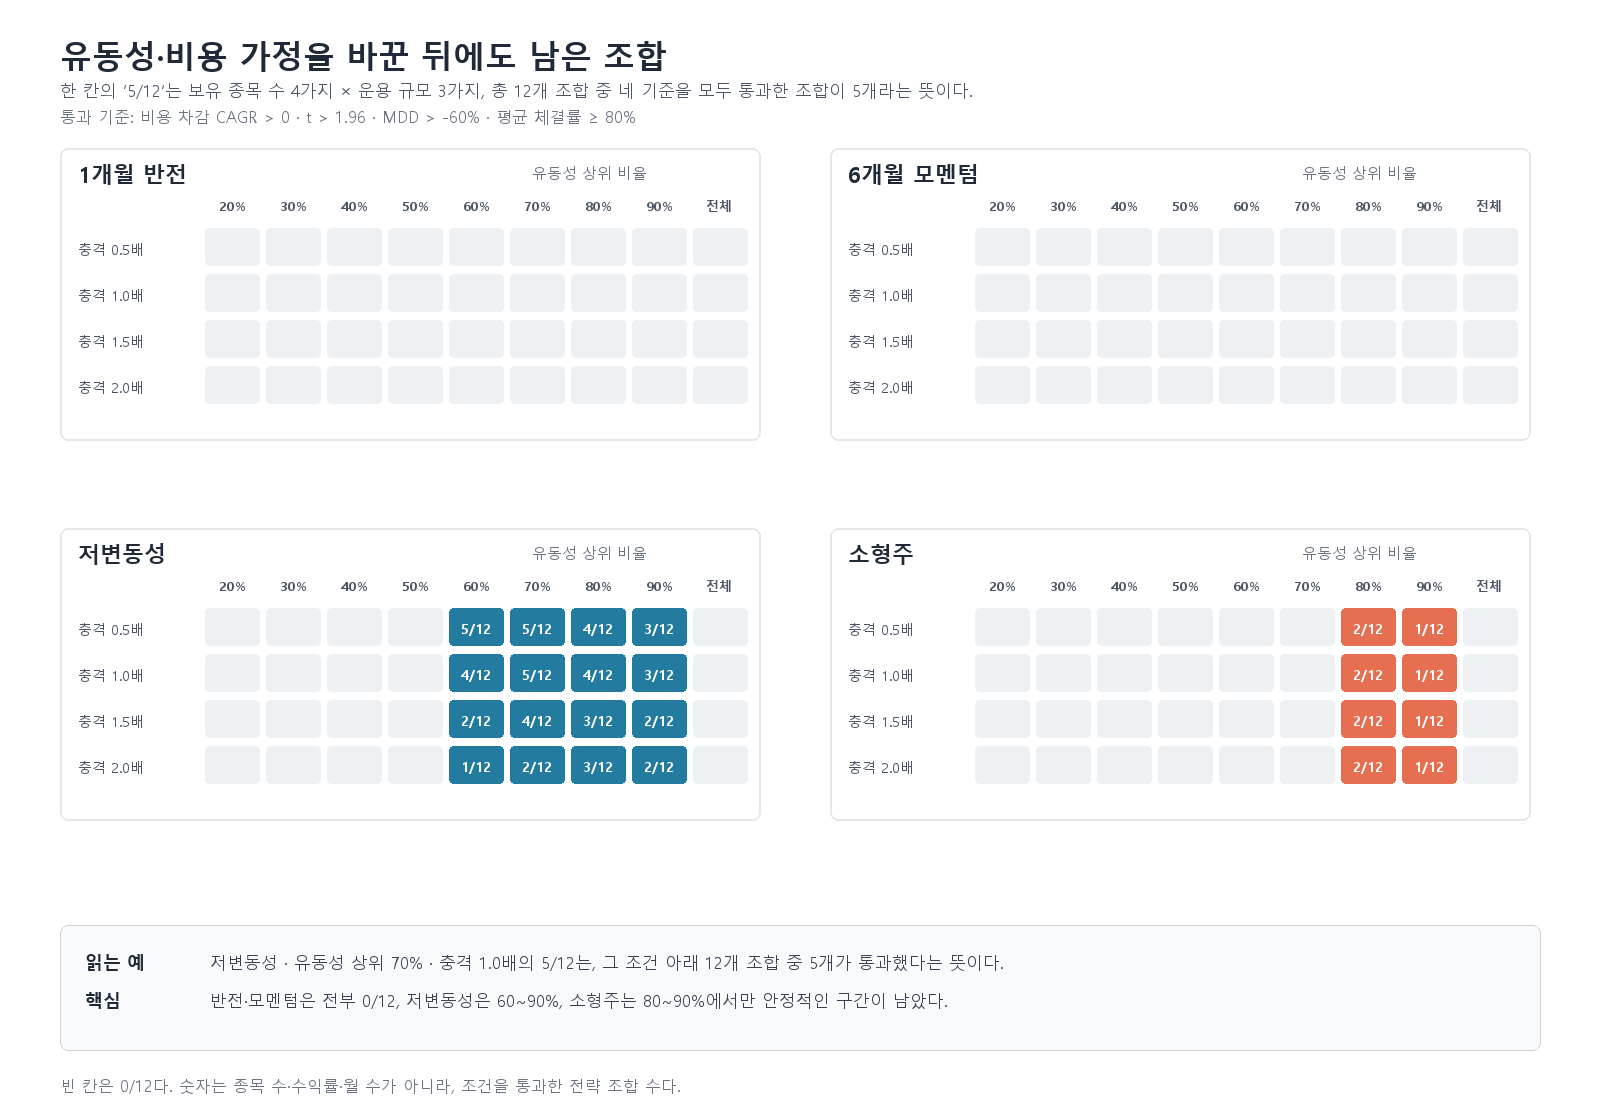
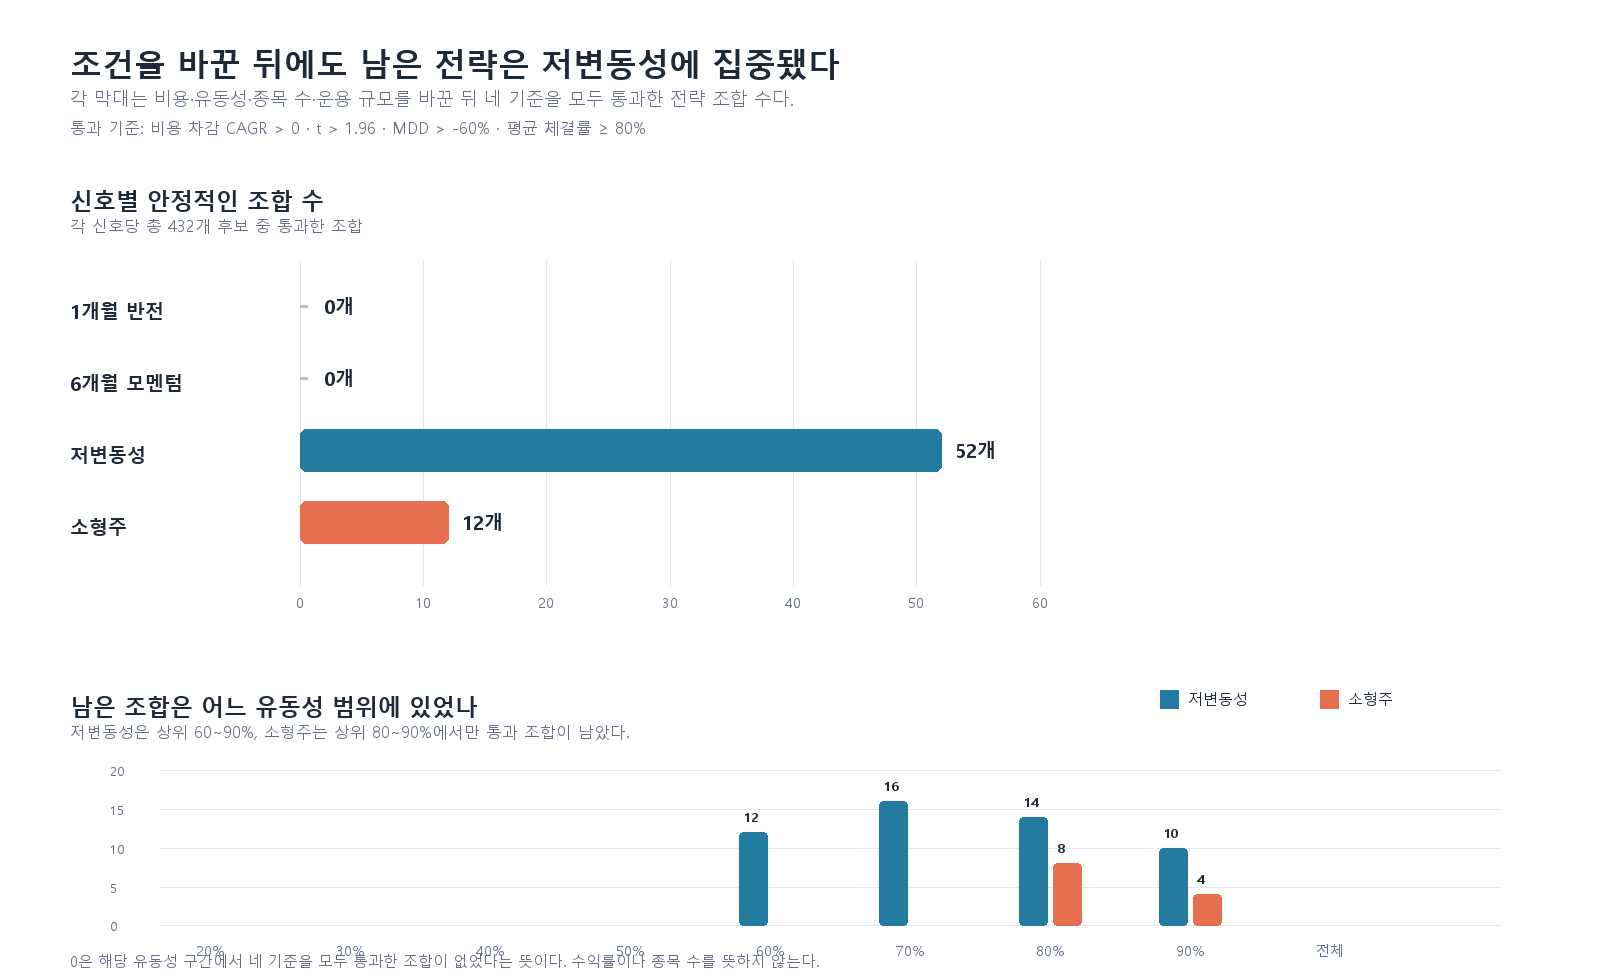
Replace dense robustness grid with readable chart

diff --git a/tools/build_blog_assets.py b/tools/build_blog_assets.py
@@ -151,6 +151,76 @@ def topology_map(rows: list[dict[str, str]]) -> None:
     save_svg("01_robustness_map.svg", "".join(svg))
 
 
+def robustness_summary_chart(rows: list[dict[str, str]]) -> None:
+    """Replace the dense parameter grid with a conventional, readable chart."""
+    robust = [row for row in rows if row["robust"] == "True"]
+    signal_order = ["reversal_1m", "momentum_6m", "low_volatility", "small_cap"]
+    total_by_signal = {signal: sum(row["signal"] == signal for row in robust) for signal in signal_order}
+    liquidity_order = [0.2, 0.3, 0.4, 0.5, 0.6, 0.7, 0.8, 0.9, 1.0]
+    by_liquidity = {
+        signal: [sum(row["signal"] == signal and round(float(row["universe_pct"]), 1) == pct for row in robust) for pct in liquidity_order]
+        for signal in ["low_volatility", "small_cap"]
+    }
+
+    image = Image.new("RGB", (1600, 980), "white")
+    draw = ImageDraw.Draw(image)
+    navy, muted, grid = "#1F2937", "#667085", "#E5E7EB"
+    lowvol, smallcap, neutral = "#247BA0", "#E76F51", "#B7C0CC"
+    draw.text((70, 42), "조건을 바꾼 뒤에도 남은 전략은 저변동성에 집중됐다", fill=navy, font=font(32, True))
+    draw.text((70, 86), "각 막대는 비용·유동성·종목 수·운용 규모를 바꾼 뒤 네 기준을 모두 통과한 전략 조합 수다.", fill=muted, font=font(18))
+    draw.text((70, 116), "통과 기준: 비용 차감 CAGR > 0 · t > 1.96 · MDD > -60% · 평균 체결률 ≥ 80%", fill=muted, font=font(16))
+
+    # Panel A: one familiar horizontal bar chart.
+    draw.text((70, 184), "신호별 안정적인 조합 수", fill=navy, font=font(23, True))
+    draw.text((70, 214), "각 신호당 총 432개 후보 중 통과한 조합", fill=muted, font=font(16))
+    x0, max_width, max_value = 300, 740, 60
+    for tick in range(0, 61, 10):
+        x = x0 + int(max_width * tick / max_value)
+        draw.line((x, 260, x, 585), fill=grid, width=1)
+        box = draw.textbbox((0, 0), str(tick), font=font(14))
+        draw.text((x - (box[2] - box[0]) / 2, 592), str(tick), fill=muted, font=font(14))
+    for index, signal in enumerate(signal_order):
+        y = 285 + index * 72
+        label = LABELS[signal]
+        draw.text((70, y + 13), label, fill=navy, font=font(19, True))
+        value = total_by_signal[signal]
+        color = lowvol if signal == "low_volatility" else smallcap if signal == "small_cap" else neutral
+        width = int(max_width * value / max_value)
+        if width:
+            draw.rounded_rectangle((x0, y, x0 + width, y + 42), radius=6, fill=color)
+        else:
+            draw.line((x0, y + 21, x0 + 7, y + 21), fill=neutral, width=3)
+        draw.text((x0 + max(width, 10) + 14, y + 8), f"{value}개", fill=navy, font=font(19, True))
+
+    # Panel B: ordinary grouped bars by liquidity bucket.
+    panel_y = 690
+    draw.text((70, panel_y), "남은 조합은 어느 유동성 범위에 있었나", fill=navy, font=font(23, True))
+    draw.text((70, panel_y + 30), "저변동성은 상위 60~90%, 소형주는 상위 80~90%에서만 통과 조합이 남았다.", fill=muted, font=font(16))
+    left, top, bottom, right = 160, 770, 925, 1500
+    for tick in range(0, 21, 5):
+        y = bottom - int((bottom - top) * tick / 20)
+        draw.line((left, y, right, y), fill=grid, width=1)
+        draw.text((110, y - 9), str(tick), fill=muted, font=font(13))
+    bar_w, step = 28, 140
+    for index, pct in enumerate(liquidity_order):
+        center = 210 + index * step
+        for offset, signal, color in [(-bar_w - 3, "low_volatility", lowvol), (3, "small_cap", smallcap)]:
+            value = by_liquidity[signal][index]
+            height = int((bottom - top) * value / 20)
+            if value:
+                draw.rounded_rectangle((center + offset, bottom - height, center + offset + bar_w, bottom), radius=4, fill=color)
+                draw.text((center + offset + 4, bottom - height - 25), str(value), fill=navy, font=font(13, True))
+        label = "전체" if pct == 1.0 else f"{int(pct * 100)}%"
+        box = draw.textbbox((0, 0), label, font=font(14))
+        draw.text((center - (box[2] - box[0]) / 2, bottom + 15), label, fill=muted, font=font(14))
+    draw.rectangle((1160, 690, 1178, 708), fill=lowvol)
+    draw.text((1188, 688), "저변동성", fill=navy, font=font(15))
+    draw.rectangle((1320, 690, 1338, 708), fill=smallcap)
+    draw.text((1348, 688), "소형주", fill=navy, font=font(15))
+    draw.text((70, 950), "0은 해당 유동성 구간에서 네 기준을 모두 통과한 조합이 없었다는 뜻이다. 수익률이나 종목 수를 뜻하지 않는다.", fill=muted, font=font(15))
+    save_png(image, "01_robustness_map.png")
+
+
 def evidence_summary() -> None:
     report = json.loads((RESULTS / "reality_check_report.json").read_text(encoding="utf-8"))
     continents = list(csv.DictReader((RESULTS / "alpha_topology_continents.csv").open(encoding="utf-8")))
@@ -462,6 +532,7 @@ def main() -> None:
     with (RESULTS / "alpha_topology_nodes.csv").open(encoding="utf-8", newline="") as handle:
         rows = list(csv.DictReader(handle))
     topology_map(rows)
+    robustness_summary_chart(rows)
     evidence_summary()
     news_attention_chart()
     consensus_cumulative_chart()